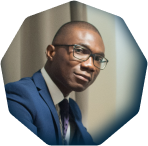
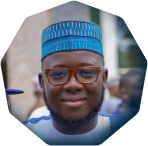
Updated the copy of the site

diff --git a/index.html b/index.html
@@ -86,7 +86,7 @@
     <section class="benefit-section">
         <div class="title">
             <h2>We handle the technical side so you can focus on growing your business.</h2>
-            <p class="normal-p">Lorem ipsum dolor sit amet, consectetur adipiscing elit. Risus at suspendisse ullamcorper mauris in. Elit, habitant diam rhoncus lectus. Psum dolor sit amet, consectetur adipiscing elit. Risus at suspendisse ullamcorper mauris in. Elit, habitant diam rhoncus lectus.</p>
+            <p class="normal-p">We understand that running a successful organization means being able to focus on the strategic decisions that drive long-term growth. That’s why we’re here to streamline the details, remove obstacles, and give you peace of mind knowing every essential component is expertly managed.</p>
         </div>
 
         <button class="main-btn">Prenez Rendez-vous</button>
@@ -182,7 +182,7 @@
     <section class="why-trust-us-section">
         <div class="title">
             <h2>Why trust us?</h2>
-            <p class="normal-p">Lorem ipsum dolor sit amet, consectetur adipiscing elit. At vel convallis quam feugiat odio nunc, consectetur faucibus.</p>
+            <p class="noraml-p">We are committed to creating solutions that respect and reflect the diverse needs of the clients and communities we serve.</p>
         </div>
 
         <div class="why-trust-us-ctn">
@@ -191,7 +191,7 @@
                     <path d="M2.01003 17.9826C1.60421 3.30669 21.5013 3.50024 21.5013 17.9824C34.7156 -4.36707 50.2787 -0.289389 38.534 14.7453C2.01003 61.5003 25.2444 19.2489 8.60479 36.3275C6.00098 39 2.51731 36.3274 2.01003 17.9826Z" stroke="#FF6C2E" stroke-width="4"/>
                 </svg>
                 <h3>Our Experience</h3>
-                <p class="normal-p">We have years of experience in consulting. Lorem ipsum dolor sit amet, consectetur adipiscing elit.</p>
+                <p class="normal-p">Our consultants have successfully navigated diverse challenges, equipping us with the insights and skills to tackle even the most complex issues. When you partner with us, you’re leveraging a wealth of knowledge built on real-world results.</p>
             </div>
 
             <div class="why-trust-us">
@@ -199,7 +199,7 @@
                     <path d="M4.26751 18.2988C10.8624 -6.96174 23.5439 2.96782 23.5439 9.72575C27.4999 36.5165 50.5287 -1.20868 40.7914 15.084C14.4995 59.0764 20.9995 15.0839 10.8623 36.5165C4.90952 49.1021 -0.337751 35.9383 4.26751 18.2988Z" stroke="#FF6C2E" stroke-width="4"/>
                 </svg>
                 <h3>Our Inclusion</h3>
-                <p class="normal-p">We include our clients every step of the way. Lorem ipsum dolor sit amet, consectetur adipiscing elit.</p>
+                <p class="normal-p">Our team brings together a wide range of backgrounds and perspectives, enabling us to approach every project with empathy and comprehensive insight. By fostering an inclusive environment, we create solutions that are respectful, representative, and effective for all clients and communities.</p>
             </div>
 
             <div class="why-trust-us">
@@ -207,7 +207,7 @@
                     <path d="M13.268 17.0339C42.4997 30.5084 35.9699 21.2893 29.0004 9.14725C19.8628 -6.77198 44.5738 8.04921 49.7919 13.8175C74 40.578 13.6453 44.5364 19.0009 37.0892C29.0005 23.1842 -18.4998 2.39033 13.268 17.0339Z" stroke="#FF6C2E" stroke-width="4"/>
                 </svg>
                 <h3>Our Strategies</h3>
-                <p class="normal-p">Our strategies are tailor-made to fit your business. Lorem ipsum dolor sit amet, cor adipiscing elit.</p>
+                <p class="normal-p">Every business is unique, which is why we customize our strategies to meet the specific needs of each client. Our approach combines time-tested methods with fresh, creative thinking, allowing us to provide solutions that are both practical and forward-looking.</p>
             </div>
             
             <div class="why-trust-us">
@@ -215,7 +215,7 @@
                     <path d="M3.00884 14.5068C2.60302 -0.158081 11.9998 3.03292 14.9997 13.5252C28.214 -8.80752 22.9997 7.52974 39.5328 11.272C87.3203 22.0886 22.9997 13.5251 9.60348 35.0092C7.63032 38.1736 3.51612 32.8379 3.00884 14.5068Z" stroke="#FF6C2E" stroke-width="4"/>
                 </svg>
                 <h3>Free Consultation</h3>
-                <p class="normal-p">Your first consultation is always free! Lorem ipsum dolor sit amet, consectetur adipiscing elit.</p>
+                <p class="normal-p">Making the right choice for your business is important, and we’re here to help you make it confidently. We offer a free initial consultation to discuss your goals, answer questions, and outline potential strategies. This no-obligation session is our way of ensuring you feel informed and supported before any commitment.</p>
             </div>
         </div>
     </section>
@@ -223,7 +223,7 @@
     <section class="members-section">
         <div class="title">
             <h2>Not to worry! Your business is in great hands.</h2>
-            <p class="normal-p">Lorem ipsum dolor sit amet, consectetur adipiscing elit. At vel convallis quam feugiat odio nunc, consectetur faucibus. Lacinia..</p>
+            <p class="normal-p">Meet our core team, deeply committed to delivering exceptional results. In addition, we carefully select and engage top-tier professionals on a project-by-project basis, ensuring that you receive the right expertise for every aspect of your project.</p>
         </div>
 
         <div class="client-reviews-ctn">
@@ -240,7 +240,7 @@
             </div>
 
             <div class="client-review">
-                <img src="./images/member-3.png" alt="Reviewer">
+                <img src="./images/member-1.png" alt="Reviewer">
                 <div class="review-title">
                     <h4>Mouïz Yessoufou</h4>
                     <p>Business & Operations</p>
@@ -252,7 +252,7 @@
     <section class="contact-section">
         <div class="title">
             <h2>We would love to work with you.</h2>
-            <p class="normal-p">Fill in your details below and we will contact you as soon as possible to strike a deal!</p>
+            <p class="normal-p">Fill in your details below and we will contact you as soon as possible to discuss!</p>
         </div>
 
         <form action="">
@@ -279,7 +279,7 @@
             </ul>
         </nav>
 
-        <p class="copyright">© 2021 BCIM, Sarl. All Rights Reserved.</p>
+        <p class="copyright">© 2024 BCIM, Sarl. All Rights Reserved.</p>
     </footer>
 </body>
 

diff --git a/about.html b/about.html
@@ -43,7 +43,7 @@
     <section class="about-our-values">
         <div class="title">
             <h2>We are guided by our values.</h2>
-            <p class="normal-p">Lorem ipsum dolor sit amet, consectetur adipiscing elit. Risus at suspendisse ullamcorper mauris in.</p>
+            <p class="normal-p">We are dedicated to client success, collaborative innovation, and ethical practices.</p>
         </div>
 
         <div class="values-ctn">
@@ -88,55 +88,23 @@
     <section class="members-section">
         <div class="title">
             <h2>Our staff is competent.</h2>
-            <p class="normal-p">Lorem ipsum dolor sit amet, consectetur adipiscing elit. At vel convallis quam feugiat odio nunc, consectetur faucibus. Lacinia..</p>
+            <p class="normal-p">Meet our core team, deeply committed to delivering exceptional results. In addition, we carefully select and engage top-tier professionals on a project-by-project basis, ensuring that you receive the right expertise for every aspect of your project.</p>
         </div>
 
         <div class="client-reviews-ctn about-staff">
             <div class="client-review">
-                <img src="./images/member-1.png" alt="Reviewer">
-                <div class="review-title">
-                    <h4>Mouiz Yessoufou</h4>
-                    <p>head manager</p>
-                </div>
-            </div>
-
-            <div class="client-review">
                 <img src="./images/member-2.png" alt="Reviewer">
                 <div class="review-title">
                     <h4>Latifou Yessoufou</h4>
-                    <p>Chief executive officer</p>
-                </div>
-            </div>
-
-            <div class="client-review">
-                <img src="./images/member-3.png" alt="Reviewer">
-                <div class="review-title">
-                    <h4>Adlath Yessoufou</h4>
-                    <p>Marketing director</p>
+                    <p>General Manager</p>
                 </div>
             </div>
 
             <div class="client-review">
                 <img src="./images/member-1.png" alt="Reviewer">
                 <div class="review-title">
-                    <h4>Mouiz Yessoufou</h4>
-                    <p>head manager</p>
-                </div>
-            </div>
-
-            <div class="client-review">
-                <img src="./images/member-2.png" alt="Reviewer">
-                <div class="review-title">
-                    <h4>Latifou Yessoufou</h4>
-                    <p>Chief executive officer</p>
-                </div>
-            </div>
-
-            <div class="client-review">
-                <img src="./images/member-3.png" alt="Reviewer">
-                <div class="review-title">
-                    <h4>Adlath Yessoufou</h4>
-                    <p>Marketing director</p>
+                    <h4>Mouïz Yessoufou</h4>
+                    <p>Business & Operations</p>
                 </div>
             </div>
         </div>
@@ -145,7 +113,7 @@
     <section class="contact-section">
         <div class="title">
             <h2>We would love to work with you.</h2>
-            <p class="normal-p">Fill in your details below and we will contact you as soon as possible to strike a deal!</p>
+            <p class="normal-p">Fill in your details below and we will contact you as soon as possible to discuss!</p>
         </div>
 
         <form action="">
@@ -171,7 +139,7 @@
             </ul>
         </nav>
 
-        <p class="copyright">© 2021 BCIM, Sarl. All Rights Reserved.</p>
+        <p class="copyright">© 2024 BCIM, Sarl. All Rights Reserved.</p>
     </footer>
 </body>
 

diff --git a/stylebeforecompatibility.css b/stylebeforecompatibility.css
@@ -106,6 +106,11 @@ h4 {
 
 /* NAVIGATION */ 
 nav {
+    /* position: fixed;
+    top: 0;
+    left: 0;
+    border: 1px solid;
+    width: 100%; */
     display: flex;
     align-items: center;
     justify-content: space-between;
@@ -317,6 +322,10 @@ header .main-btn {
         margin-bottom: 10px;
         font-size: 11px;
         line-height: 17px;
+    }
+
+    .other-header-txt h1 {
+        margin: 75px 7vw 0 auto;
     }
 
     .header-graphic-tablet {
@@ -581,7 +590,7 @@ section {
 
 /* HOME WHY TRUST US SECTION */ 
 .why-trust-us-section {
-    height: 750px;
+    height: 845px;
     margin: 200px 0 0 0;
     padding: 60px 8vw;
     background: rgba(0, 38, 64, 0.05);
@@ -600,11 +609,10 @@ section {
     grid-template-columns: 1fr 1fr;
     width: fit-content;
     margin-left: auto;
-    padding-right: 100px;
 }
 
 .why-trust-us {
-    width: 250px;
+    width: 450px;
 }
 
 .why-trust-us svg {
@@ -621,7 +629,7 @@ section {
     margin-bottom: 5px;
 }
 
-@media (max-width: 840px) {
+@media (max-width: 1240px) {
     .why-trust-us-section {
         height: auto;
         margin: 150px 0 0 0;
@@ -976,11 +984,7 @@ footer .copyright {
 
 
 .about-staff {
-    display: grid;
-    grid-template-columns: 1fr 1fr 1fr;
-    grid-template-rows: 1fr 1fr;
-    place-items: center;
-    row-gap: 115px;
+    /* border: 1px solid; */
 }
 
 @media (max-width: 940px) {

diff --git a/services.html b/services.html
@@ -107,7 +107,7 @@
     <section class="contact-section">
         <div class="title">
             <h2>We would love to work with you.</h2>
-                <p class="normal-p">Fill in your details below and we will contact you as soon as possible to strike a deal!</p>
+                <p class="normal-p">Fill in your details below and we will contact you as soon as possible to discuss!</p>
         </div>
 
         <form action="">
@@ -133,7 +133,7 @@
             </ul>
         </nav>
 
-        <p class="copyright">© 2021 BCIM, Sarl. All Rights Reserved.</p>
+        <p class="copyright">© 2024 BCIM, Sarl. All Rights Reserved.</p>
     </footer>
 </body>
 

diff --git a/contact.html b/contact.html
@@ -102,7 +102,7 @@
             </ul>
         </nav>
 
-        <p class="copyright">© 2021 BCIM, Sarl. All Rights Reserved.</p>
+        <p class="copyright">© 2024 BCIM, Sarl. All Rights Reserved.</p>
     </footer>
 </body>
 
